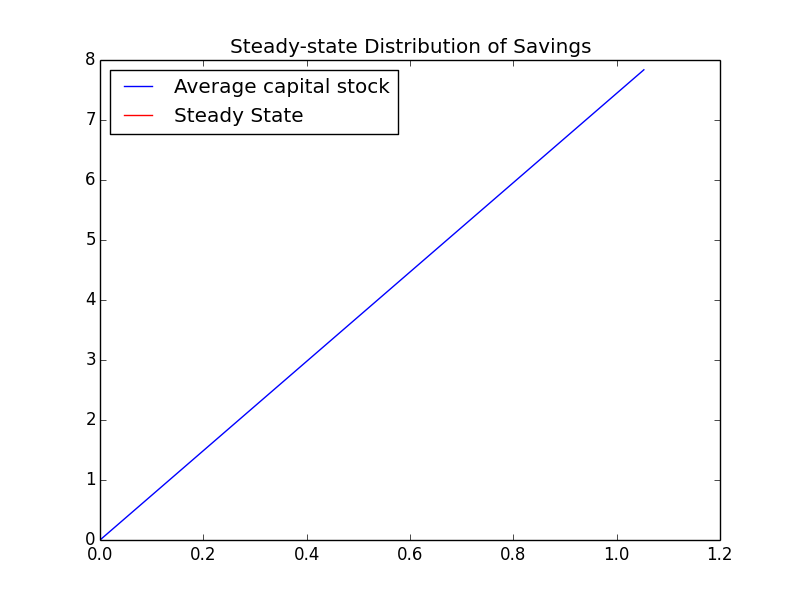
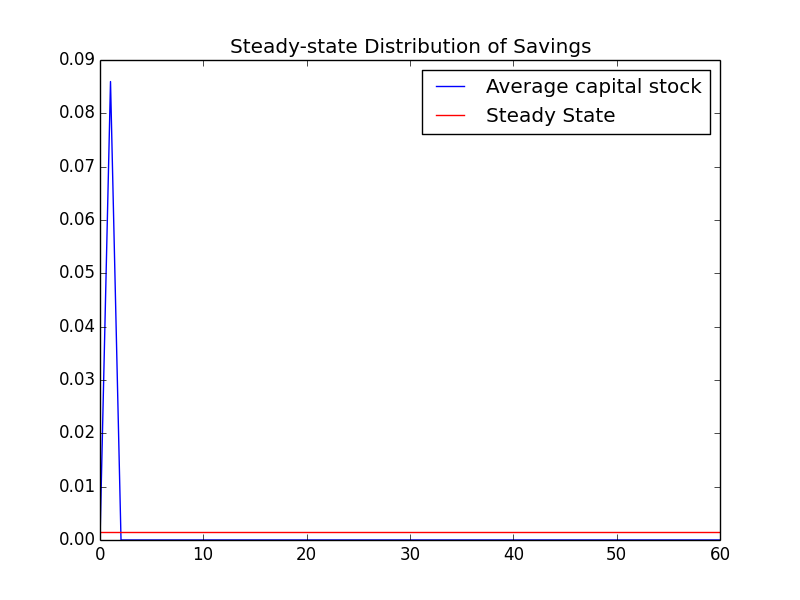
What I did this morning

diff --git a/Python/olg_basic/TPI.py b/Python/olg_basic/TPI.py
@@ -1,10 +1,69 @@
-#Packages
+'''
+------------------------------------------------------------------------
+Last updated 6/25/2014
+Python version of Evans/Philips 2014 paper
+
+This program solves for transition path of the distribution of wealth 
+and the aggregate capital stock using the time path iteration (TPI) 
+method
+
+This m-file calls the following other file(s):
+            Steady_State_Variables.out
+------------------------------------------------------------------------
+'''
+
+'''
+------------------------------------------------------------------------
+    Packages
+------------------------------------------------------------------------
+'''
+
 import numpy as np
 import matplotlib
 matplotlib.use('Agg')
 import matplotlib.pyplot as plt
 import time
 import shelve
+
+'''
+------------------------------------------------------------------------
+Import steady state distribution, parameters and other objects from
+steady state computation in OLGabilss.m
+------------------------------------------------------------------------
+S        = number of periods an individual lives
+beta     = discount factor (0.96 per year)
+sigma    = coefficient of relative risk aversion
+alpha    = capital share of income
+rho      = contraction parameter in steady state iteration process
+           representing the weight on the new distribution gamma_new
+A        = total factor productivity parameter in firms' production
+           function
+n        = 1 x S vector of inelastic labor supply for each age s
+e        = S x J matrix of age dependent possible working abilities e_s
+f        = S x J matrix of age dependent discrete probability mass
+           function for e: f(e_s)
+J        = number of points in the support of e
+bmin     = minimum value of b (usually is bmin = 0)
+bmax     = maximum value of b
+bsize    = scalar, number of discrete points in the support of b
+b        = 1 x bsize vector of possible values for initial wealth b and
+           savings b'
+gamma_ss = (S-1) x J x bsize array of steady state distribution of
+           wealth
+Kss      = steady state aggregate capital stock: scalar
+Nss      = steady state aggregate labor: scalar
+Yss      = steady state aggregate output: scalar
+wss      = steady state real wage: scalar
+rss      = steady state real rental rate: scalar
+phiind_ss = S x J x bsize steady-state policy function indicies for
+            b' = phi(s,e,b). The last row phiind(S,e,b) is ones and
+            corresponds to b_{S+1}. The first row phi(1,e,b) corresponds
+            to b_2.
+phi_ss    = S x J x bsize steady-state policy function values for
+            b' = phi(s,e,b). The last row phi(S,e,b) is zeros and
+            corresponds to b_{S+1}. The first row corresponds to b_2
+------------------------------------------------------------------------
+'''
 
 variables = shelve.open('Steady_State_Variables.out')
 for key in variables:
@@ -14,4 +73,97 @@ for key in variables:
         pass
 variables.close()
 
-print Kss
+start_time = time.time() # Start timer
+
+'''
+------------------------------------------------------------------------
+Set other parameters and objects
+------------------------------------------------------------------------
+T       = number of periods until the steady state
+gamma0  = (S-1) x J x bsize array, initial distribution of wealth
+K0      = initial aggregate capital stock as a function of the initial
+          distribution of wealth
+rho_TPI = contraction parameter in TPI process representing weight on 
+          new time path of aggregate capital stock
+------------------------------------------------------------------------
+'''
+
+T = 60
+I0 = np.identity(bsize)
+I0row = I0[155,:]
+gamma0 = np.tile(I0row.reshape(1,1,bsize), (S-1,J,1)) * \
+    np.tile(f[:S-1,:].reshape(S-1,J,1), (1,1,bsize)) / (S-1)
+K0 = (float(S-1)/S) * (gamma0 * np.tile(b.reshape(1,1,bsize),\
+    (S-1,J,1))).sum()
+rho_TPI = 0.2
+
+'''
+------------------------------------------------------------------------
+Solve for equilibrium transition path by TPI
+------------------------------------------------------------------------
+Kinit   = 1 x T vector, initial time path of aggregate capital stock
+Ninit   = 1 x T vector, initial time path of aggregate labor demand. 
+          This is just equal to a 1 x T vector of Nss because labor is
+          supplied inelastically
+Yinit   = 1 x T vector, initial time path of aggregate output
+winit   = 1 x T vector, initial time path of real wage
+rinit   = 1 x T vector, initial time path of real interest rate
+gammat  = (S-1) x J x bsize x T array time path of the distribution of
+          capital
+phiindt = S x J x bsize x T array time path of policy function indicies
+          for b' = phi(s,e,b,t). The last row phiindt(S,e,b,t) is ones
+          and corresponds to b_{S+1}=0. The first row phi(1,e,b,t)
+          corresponds to b_2.
+phit    = S x J x bsize x T array time path of policy function values 
+          for b' = phi(s,e,b,t). The last row phi(S,e,b,t) is zeros and
+          corresponds to b_{S+1}=0. The first row corresponds to b_2.
+p1aind  = index of period-1 age
+Vinit   = bsize x J matrix of values of the state in the next period:
+          V(b',e')
+sind    = index of age from period 1
+tind    = index of time period
+------------------------------------------------------------------------
+c          = bsize x J x bsize matrix of values for consumption in the
+             current period: c(b,e,b')
+cposind    = bsize x J x bsize array of = 1 if c > 0 and = 0 if c <= 0
+cpos       = bsize x J x bsize c array with c <= 0 values replaces with
+             positive values very close to zero
+bposind    = bsize x J x bsize array of = 1 if c >= 0 and = 0 if c < 0.
+             This matrix is important because it allows for b'=0 to be
+             the optimal choice when income equals zero
+uc         = utility of consumption. The utility of c<0 is set to -10^8
+EVprime    = the expected value of the value function in the next period
+EVprimenew = the expected value of the value function in the next period
+             reshaped to be added to the utility of current consumption
+Vnewarray  = new value function in terms of b, e, and the unoptimized
+             possible values of b'
+Vnew       = the new value function when b' is chosen optimally
+bprimeind  = the index of the optimal
+------------------------------------------------------------------------
+'''
+
+Kinit = np.array(list(np.linspace(K0, Kss, T)) + list(np.ones(S-2)*Kss))
+Ninit = np.ones(T+S-2) * Nss
+Yinit = A*((Kinit**alpha) * (Ninit**(1-alpha)))
+winit = (1-alpha) * (Yinit/Ninit)
+rinit = alpha * (Yinit/Kinit)
+
+TPIiter = 0
+TPImaxiter = 500
+TPIdist = 10
+TPImindist = 3.0*10**(-6)
+
+while (TPIiter < TPImaxiter) and (TPIdist >= TPImindist):
+
+    TPIiter += 1
+
+Kpath_TPI = Kinit
+# gammat_TPI = gammat
+
+elapsed_time = time.time() - start_time
+
+print "This took", elapsed_time
+print "The time path is", Kpath_TPI
+print "Iterations:", TPIiter
+print "Distance:", TPIdist
+

diff --git a/Python/olg_basic/OLG_fastversion.py b/Python/olg_basic/OLG_fastversion.py
@@ -1,6 +1,5 @@
 '''
-Python version of the Evan/Phillips 2014 paper
-Last updated: 6/25/2014
+Last updated: 6/26/2014
 Python version of the Evan/Phillips 2014 paper
 Calculates steady state, and then usies timepath iteration and
 alternate model forecast method to solve
@@ -41,7 +40,7 @@ b     = 1 x bsize vector of possible values for initial wealth b
 '''
 starttime = time.time()
 
-S = 20
+S = 60
 beta = .96 ** (60 / S)
 sigma = 3.0
 alpha = .35
@@ -60,7 +59,7 @@ e = np.tile(e, (S, 1))
 f = np.array([.04, .09, .2, .34, .2, .09, .04]).T
 f = np.tile(f, (S, 1))
 J = e.shape[1]
-bsize = 50
+bsize = 350
 bmin = 0
 bmax = 15
 b = np.linspace(bmin, bmax, bsize)
@@ -205,7 +204,11 @@ while (ssiter < ssmaxiter) & (ssdist >= ssmindist):
         1 / float(S - 1)) * f[1, :].reshape(J, 1).dot(
         ((phiind[0, :, 0].reshape(1, J, 1) == np.arange(
             bsize)) * f[0, :].reshape(J, 1)).sum(axis=1))
-    gamma_new[1:, :, :] = f[2:, :].reshape(S-2, J, 1) * (((phiind[1:-1, :, :].reshape(S-2, J, bsize) == np.arange(bsize)) * gamma_init[:-1, :, :].reshape(S-2, J, bsize)).sum(axis=1).sum(axis=0).reshape(1, 1, bsize))
+    gamma_new[1:, :, :] = f[2:, :].reshape(S-2, J, 1) * \
+        (((phiind[1:-1, :, :].reshape(S-2, J, bsize) == np.tile\
+            (np.arange(bsize).reshape((1,1,bsize)),(S-2, J, 1))) * \
+        gamma_init[:-1, :, :].reshape(S-2, J, bsize)).sum(axis=1).sum\
+        (axis=0).reshape(1, 1, bsize))
     ssiter += 1
     ssdist = np.max(abs(gamma_new - gamma_init))
     gamma_init = rho * gamma_new + (1 - rho) * gamma_init
@@ -262,17 +265,17 @@ plt.legend(loc=0)
 plt.savefig("distribution_plot")
 
 '''
--------------------------------------------------------------------------
+------------------------------------------------------------------------
  Generate steady state multiplier values
--------------------------------------------------------------------------
+------------------------------------------------------------------------
 '''
 
 ssbsavg = (S-1) * (gamma_ss * np.tile(b.reshape(1,1,bsize), \
     (S-1,J,1))).sum(axis=2).sum(axis=1)
 esavg = (e*f).sum(axis=1)
 nsavg = n.T
-cssvec = (1+rss) * np.array([0]+list(ssbsavg[:S-2])) + wss * esavg[:S-1] * \
-    nsavg[:S-1] - ssbsavg
+cssvec = (1+rss) * np.array([0]+list(ssbsavg[:S-2])) + wss * \
+    esavg[:S-1] * nsavg[:S-1] - ssbsavg
 cp1ssvec = (1+rss) * ssbsavg + wss*esavg[1:] * nsavg[1:] - \
     np.array(list(ssbsavg[1:])+[0])
 gxbar = (cssvec**(-sigma)) / ((beta*(1+rss)) * cp1ssvec**(-sigma))
